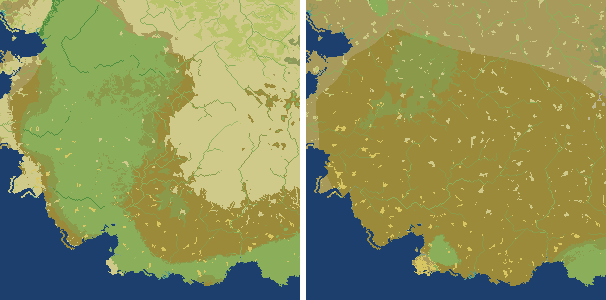
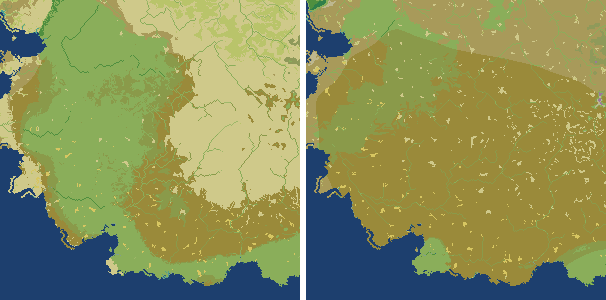
PW-231: the zoom carries the grasses' C4 share through its chunked potential; zoom numbers re-measured after merging main
Claude-Session: https://claude.ai/code/session_015Ygr7jJsDAVZNZ3um5tdCA

diff --git a/planet/zoom_vegetation.py b/planet/zoom_vegetation.py
@@ -328,6 +328,7 @@ def compute(world: dict, fr, nx: int, ny: int, res: float, seed: int, size_km: f
     nh = nv + nr
     pot = {k: np.zeros((V.NP, nh)) for k in ("npp", "net", "lai", "on_jul", "on_jan")}
     pot["ok"] = np.zeros((V.NP, nh), bool)
+    pot["c4_share"] = np.full(nh, 0.5)  # (the grasses' C4 share, vegetation.potential)
     for a in range(0, nh, CHUNK):
         b = min(a + CHUNK, nh)
         sl = base[a:b]
@@ -347,7 +348,10 @@ def compute(world: dict, fr, nx: int, ny: int, res: float, seed: int, size_km: f
         pt = V.potential(s, viable, eff, co2)
         pt = dict(pt, npp=pt["npp"] * f_soil, net=pt["net"] * f_soil)  # (the soil's fertility, as on the globe)
         for k in pot:
-            pot[k][:, sl] = pt[k] if k != "ok" else pt["ok"] & viable
+            if k == "c4_share":
+                pot[k][sl] = pt[k]
+            else:
+                pot[k][:, sl] = pt[k] if k != "ok" else pt["ok"] & viable
         for k in one_d:
             if s.get(k) is not None:
                 s1.setdefault(k, []).append(np.asarray(s[k], float))

diff --git a/issue-tracking/inbox/draft-veg-sclerophyll-expansion-after-fuel-age.md b/issue-tracking/inbox/draft-veg-sclerophyll-expansion-after-fuel-age.md
@@ -14,7 +14,7 @@ refs: [planet/vegetation.py, tools/veg_check.py, docs/review/vegetation/batch-20
 
 ## Description
 PW-234 gave shrubs a slowly decaying dead fuel (SLOW_FUEL 0.5) and sclerophyll shrubs (SclS) a resprouter's fire survival (0.8 -> 0.9). Maquis now burns every ~20-50 yr and stays scrub, but SclS also became the most fire-tolerant woody type wherever it is viable, and its own fuel feeds the fire that keeps trees out (a shrub-fire feedback, as real fire-prone shrublands have):
-- L7 world from run a1d3b9 @ 1000 Myr (keyframe; before dd66bf / after 7d3c84, deleted after the batch): dry sclerophyll scrub 1980 -> 4672 cells (of 52k land), from short-grass steppe (1127), tropical grassland (618), temperate woodland (567); warm temperate mixed forest -> temperate scrub and thicket (522); mean tree cover 40.4 -> 37.8%, SclS cover 4.9 -> 10.8%. Zoom at 32.0, -80.5 (600 km @ 2 km): maquis 17 -> 62% of the land, trees 17 -> 4%, woodland and steppe mostly gone.
+- L7 world from run a1d3b9 @ 1000 Myr (keyframe; before dd66bf / after 7d3c84, deleted after the batch): dry sclerophyll scrub 1980 -> 4672 cells (of 52k land), from short-grass steppe (1127), tropical grassland (618), temperate woodland (567); warm temperate mixed forest -> temperate scrub and thicket (522); mean tree cover 40.4 -> 37.8%, SclS cover 4.9 -> 10.8%. Zoom at 32.0, -80.5 (600 km @ 2 km): maquis 17 -> 57% of the land, trees 17 -> 8%, woodland and steppe mostly gone.
 - Earth (observed climate): ~3 Mkm2 more shrubland (tropical grassland in Botswana/Zambia and short-grass steppe -> "dry sclerophyll scrub"; some Chaco and N India forest -> thicket); agreement 60.6 -> 59.9%.
 Options:
 - (A) Keep (resprouting sclerophylls are fire winners; Earth agreement barely moves; the potential-vegetation "shrubland" Earth has is mostly called grassland by the model anyway).

diff --git a/docs/review/vegetation/batch-2026-10-16.md b/docs/review/vegetation/batch-2026-10-16.md
@@ -40,7 +40,7 @@ Drops, honestly: agreement −1.1 / −0.3 points; forest −1.9 / −2.6 Mkm²;
 
 ## L7 world and zoom (run a1d3b9 @ 1000 Myr, from its keyframe)
 
-The ticket's world 351f32 and zoom 58c0ac no longer exist, so: world from the same keyframe built with the old code (dd66bf) and the new (7d3c84), and a zoom of each at 32.0, −80.5 (600 km @ 2 km; a maquis region whose cells were fire-free before). Outputs deleted after the batch.
+The ticket's world 351f32 and zoom 58c0ac no longer exist, so: world from the same keyframe built with the old code (dd66bf) and the new (7d3c84), and a zoom of each at 32.0, −80.5 (600 km @ 2 km; a maquis region whose cells were fire-free before; the after zoom on the code merged with main, which gives zooms the soils). Outputs deleted after the batch.
 
 | | before | after |
 |---|---|---|
@@ -49,8 +49,8 @@ The ticket's world 351f32 and zoom 58c0ac no longer exist, so: world from the sa
 | dry sclerophyll scrub cells | 1980 | 4672 |
 | heathland cells (median rain) | 5 (1820 mm) | 71 (996 mm) |
 | mean tree cover / SclS cover / C3 grass cover | 40.4 / 4.9 / 8.3% | 37.8 / 10.8 / 2.9% |
-| zoom: maquis share of land / burning / median return | 17% / 20% / 22 yr | 62% / 96% / 20 yr |
-| zoom: trees | 17.4% | 4.2% |
+| zoom: maquis share of land / burning / median return | 17% / 20% / 22 yr | 57% / 83% / 48 yr |
+| zoom: trees | 17.4% | 7.8% |
 
 ![zoom before / after](batch-2026-10-16/zoom_maquis_before_after.png)
 *Zoom at 32.0, −80.5 (600 km @ 2 km), named types, before (left) and after (right): the woodland and steppe of the summer-dry hills become maquis (olive) and, to the north, dry sclerophyll scrub.*

diff --git a/issue-tracking/tickets/PW-220-vegetation-types-that-look-wrong-in-l7-z.md b/issue-tracking/tickets/PW-220-vegetation-types-that-look-wrong-in-l7-z.md
@@ -24,7 +24,7 @@ Zooming into world 351f32 (L7 vegetation demo) made some world-level classificat
 - [ ] each case checked against the world model and fixed or explained
 
 ## Updates
-- 2026-10-16: Vegetation batch 2026-10-16: on a new L7 world (run a1d3b9 @ 1000 Myr) smalls2's fixes hold (no heath under 400 mm, no lichen woodland with coldest month > -2 C, temperate forest within 8 deg only on 1500-1800 m highlands with tc 14-15 C). Maquis now burns (PW-234): world maquis 81 -> 127 cells, fire-free 89 -> 46%, median return 139 -> 49 yr; zoom at 32.0,-80.5 maquis 17 -> 62%, 96% burning, median 20 yr. Side effect: sclerophyll scrub spreads into steppe and woodland (draft-veg-sclerophyll-expansion-after-fuel-age.md). docs/review/vegetation/batch-2026-10-16.md
+- 2026-10-16: Vegetation batch 2026-10-16: on a new L7 world (run a1d3b9 @ 1000 Myr) smalls2's fixes hold (no heath under 400 mm, no lichen woodland with coldest month > -2 C, temperate forest within 8 deg only on 1500-1800 m highlands with tc 14-15 C). Maquis now burns (PW-234): world maquis 81 -> 127 cells, fire-free 89 -> 46%, median return 139 -> 49 yr; zoom at 32.0,-80.5 maquis 17 -> 57%, 83% burning, median 48 yr. Side effect: sclerophyll scrub spreads into steppe and woodland (draft-veg-sclerophyll-expansion-after-fuel-age.md). docs/review/vegetation/batch-2026-10-16.md
 - 2026-10-16: Status todo -> in-progress. Vegetation batch agent started.
 - 2026-10-15: Smalls2: heath, lichen woodland, tropical-led mixed forest fixed; maquis fire left for the fuel-age draft.
 - 2026-10-15: Created from inbox draft draft-veg-type-oddities-in-zooms.md (found by vegzoom).
